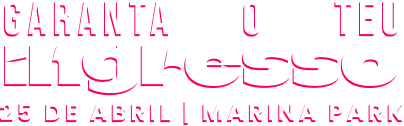
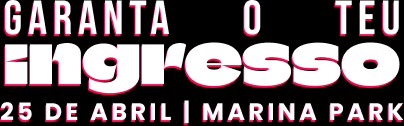
Implementa 3 designs Figma do Plantão (hero poster + título PLANTÃO 2026 + CTA)
Substitui hero do /plantao pelos assets oficiais do Figma:
- title-plantao.png (node 1:1149) — 'PLANTÃO 2026' em graffiti rosa+branco
- cta-ingresso.png (node 1:1146) — 'GARANTA O TEU INGRESSO / 25 DE ABRIL | MARINA PARK'
  como pill clicável grande no lugar do botão simples
- hero.png (node 1:1142) — poster vertical do show (palco + luzes vermelhas)

Layout reorganizado em 2 colunas: à esquerda titulo + manifesto + CTA;
à direita o poster vertical (rounded-3xl com glow rosa). Mantém o resto da
página igual (line-up, ingressos, edições anteriores, FAQ).

Removido o duplicado de manifesto na seção 'Uma noite, frente ao mar' —
agora só tem o título e o mascote.

diff --git a/app/(shell)/plantao/page.tsx b/app/(shell)/plantao/page.tsx
@@ -28,73 +28,105 @@ export default function PlantaoHubPage() {
       <section
         className="relative w-full overflow-hidden"
         style={{
-          aspectRatio: "16 / 9",
-          maxHeight: "min(78svh, 800px)",
-          background: "#1a0410",
+          minHeight: "min(86svh, 880px)",
+          background: "#0a0204",
         }}
         aria-label="Plantão 2026"
       >
-        <Image
-          src="/figma-plantao/hero.png"
-          alt="Plantão Festival 2026"
-          fill
-          priority
-          quality={95}
-          sizes="100vw"
-          className="object-cover"
-          style={{ objectPosition: "center center" }}
-        />
+        {/* gradient bg suave (vermelho-bordô) */}
         <div
           aria-hidden
           className="absolute inset-0 pointer-events-none"
           style={{
             background:
-              "linear-gradient(180deg, transparent 85%, rgba(0,0,0,0.5) 100%)",
+              "radial-gradient(circle at 70% 40%, rgba(255,45,90,0.18) 0%, rgba(20,2,8,0) 60%), linear-gradient(180deg, #1a0410 0%, #0a0204 100%)",
           }}
         />
-        <div className="absolute inset-x-0 bottom-6 flex justify-center sm:bottom-10">
-          <Link
-            href="/plantao/ingressos"
-            data-cursor="Ingressos"
-            className="inline-flex items-center rounded-full border-2 px-7 py-3 text-sm font-semibold tracking-[0.04em] backdrop-blur-sm transition-colors hover:bg-white hover:text-black"
-            style={{
-              borderColor: "#ffffff",
-              color: "#ffffff",
-              background: "rgba(0,0,0,0.35)",
-            }}
-          >
-            Garanta seu ingresso →
-          </Link>
+
+        <div className="relative z-10 mx-auto grid h-full max-w-screen-2xl items-center gap-8 px-4 py-16 sm:px-8 sm:py-20 lg:grid-cols-[1.2fr_1fr] lg:gap-12">
+          {/* coluna esquerda: títulos + CTA */}
+          <div className="flex flex-col items-start gap-8">
+            <p className="text-[10px] uppercase tracking-[0.4em] text-white/70">
+              25 de Abril · Marina Park · Fortaleza/CE
+            </p>
+
+            <div className="relative w-full max-w-xl" style={{ aspectRatio: "399 / 143" }}>
+              <Image
+                src="/figma-plantao/title-plantao.png"
+                alt="Plantão 2026"
+                fill
+                priority
+                quality={95}
+                sizes="(min-width: 1024px) 600px, 92vw"
+                className="object-contain object-left"
+              />
+            </div>
+
+            <p className="max-w-lg text-sm leading-relaxed text-white/85 sm:text-base">
+              {current.manifesto}
+            </p>
+
+            <Link
+              href="/plantao/ingressos"
+              data-cursor="Garanta seu ingresso"
+              className="relative block w-full max-w-md transition-transform hover:-translate-y-0.5"
+            >
+              <div className="relative w-full" style={{ aspectRatio: "404 / 126" }}>
+                <Image
+                  src="/figma-plantao/cta-ingresso.png"
+                  alt="Garanta o teu ingresso — 25 de Abril | Marina Park"
+                  fill
+                  priority
+                  sizes="(min-width: 1024px) 480px, 92vw"
+                  className="object-contain object-left"
+                />
+              </div>
+            </Link>
+          </div>
+
+          {/* coluna direita: poster vertical do show */}
+          <div className="relative mx-auto w-full max-w-md lg:max-w-none">
+            <div
+              className="relative overflow-hidden rounded-3xl"
+              style={{
+                aspectRatio: "541 / 835",
+                background: "#1a0410",
+                boxShadow:
+                  "0 24px 80px rgba(255,45,90,0.25), 0 8px 24px rgba(0,0,0,0.4)",
+              }}
+            >
+              <Image
+                src="/figma-plantao/hero.png"
+                alt="Plantão Festival — palco"
+                fill
+                priority
+                quality={95}
+                sizes="(min-width: 1024px) 540px, 92vw"
+                className="object-cover"
+              />
+            </div>
+          </div>
         </div>
       </section>
 
       <section className="mx-auto max-w-screen-2xl px-4 py-12 sm:px-8 sm:py-16">
-        <div className="grid gap-8 lg:grid-cols-[1.6fr_1fr] lg:items-end">
-          <div>
-            <p className="text-[10px] uppercase tracking-[0.4em] text-muted">
-              25 de Abril · Marina Park · Fortaleza/CE
-            </p>
-            <h1
-              className="mt-3 font-display uppercase leading-[0.92]"
-              style={{
-                fontSize: "clamp(2.4rem, 6vw, 5rem)",
-                letterSpacing: "-0.02em",
-              }}
-            >
-              Uma noite, frente ao mar, toda a cena.
-            </h1>
-            <p className="mt-6 max-w-2xl text-sm leading-relaxed text-fg/85 sm:text-base">
-              {current.manifesto}
-            </p>
-          </div>
-
-          <div className="relative aspect-square w-48 self-center justify-self-center sm:w-64 lg:w-full lg:max-w-xs">
+        <div className="grid gap-8 lg:grid-cols-[1.6fr_auto] lg:items-end">
+          <h1
+            className="font-display uppercase leading-[0.92]"
+            style={{
+              fontSize: "clamp(2rem, 5vw, 4rem)",
+              letterSpacing: "-0.02em",
+            }}
+          >
+            Uma noite, frente ao mar, toda a cena.
+          </h1>
+          <div className="relative aspect-square w-36 self-center justify-self-center sm:w-48">
             <Image
               src="/figma-plantao/mascote.png"
               alt=""
               aria-hidden
               fill
-              sizes="280px"
+              sizes="240px"
               className="object-contain"
             />
           </div>